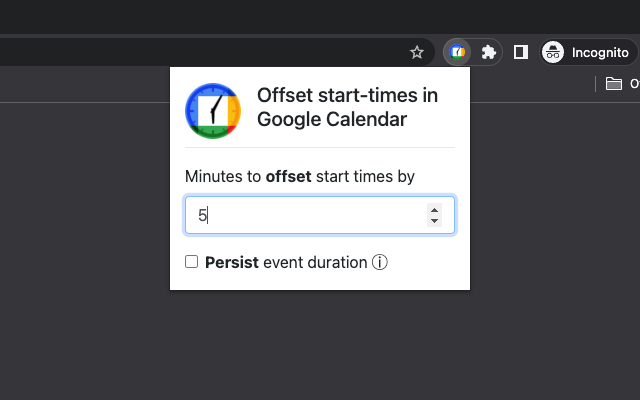
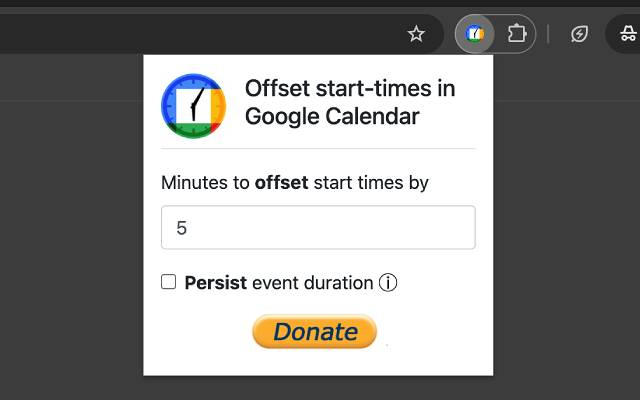
feat: add donate button

Changed region(s): [[0.0, 0.0, 1.0, 0.96]]

diff --git a/popup.html b/popup.html
@@ -24,6 +24,15 @@
       #persistDuration_tooltip {
         display: none;
       }
+      form + form {
+        margin-top: 14px;
+      }
+      #donateForm {
+        text-align: center;
+      }
+      #donateForm input {
+        height: 2rem;
+      }
     </style>
   </head>
 
@@ -44,6 +53,11 @@
           <label class="form-check-label" for="persistDuration"><b>Persist</b> event duration</label>&nbsp;<span id="persistDuration_tooltip_icon">ⓘ</span>
           <p id="persistDuration_tooltip"><small>When this is enabled, the end-time of the meeting will be offset by the same amount as the start-time (not recommended)</small></p>
         </div>
+      </form>
+      <form id="donateForm">
+        <input type="hidden" name="hosted_button_id" value="XNQEASRPMBW4G" />
+        <input type="image" src="paypal-donate-button.png" border="0" name="submit" title="PayPal - The safer, easier way to pay online!" alt="Donate with PayPal button" />
+        <img alt="" border="0" src="paypal-donate-button.png" width="1" height="1" />
       </form>
     </div>
     <script src="popup.js"></script>

diff --git a/popup.js b/popup.js
@@ -24,3 +24,12 @@ persistInputElement.addEventListener("change", e => {
 persistTooltipIconElement.addEventListener("mouseover", e => {
   persistTooltipElement.style.display = "block"
 })
+
+document.addEventListener('DOMContentLoaded', () => {
+  const donateForm = document.getElementById('donateForm');
+
+  donateForm.addEventListener('submit', (e) => {
+    e.preventDefault();
+    window.open('https://www.paypal.com/donate?hosted_button_id=XNQEASRPMBW4G', '_blank');
+  });
+});
